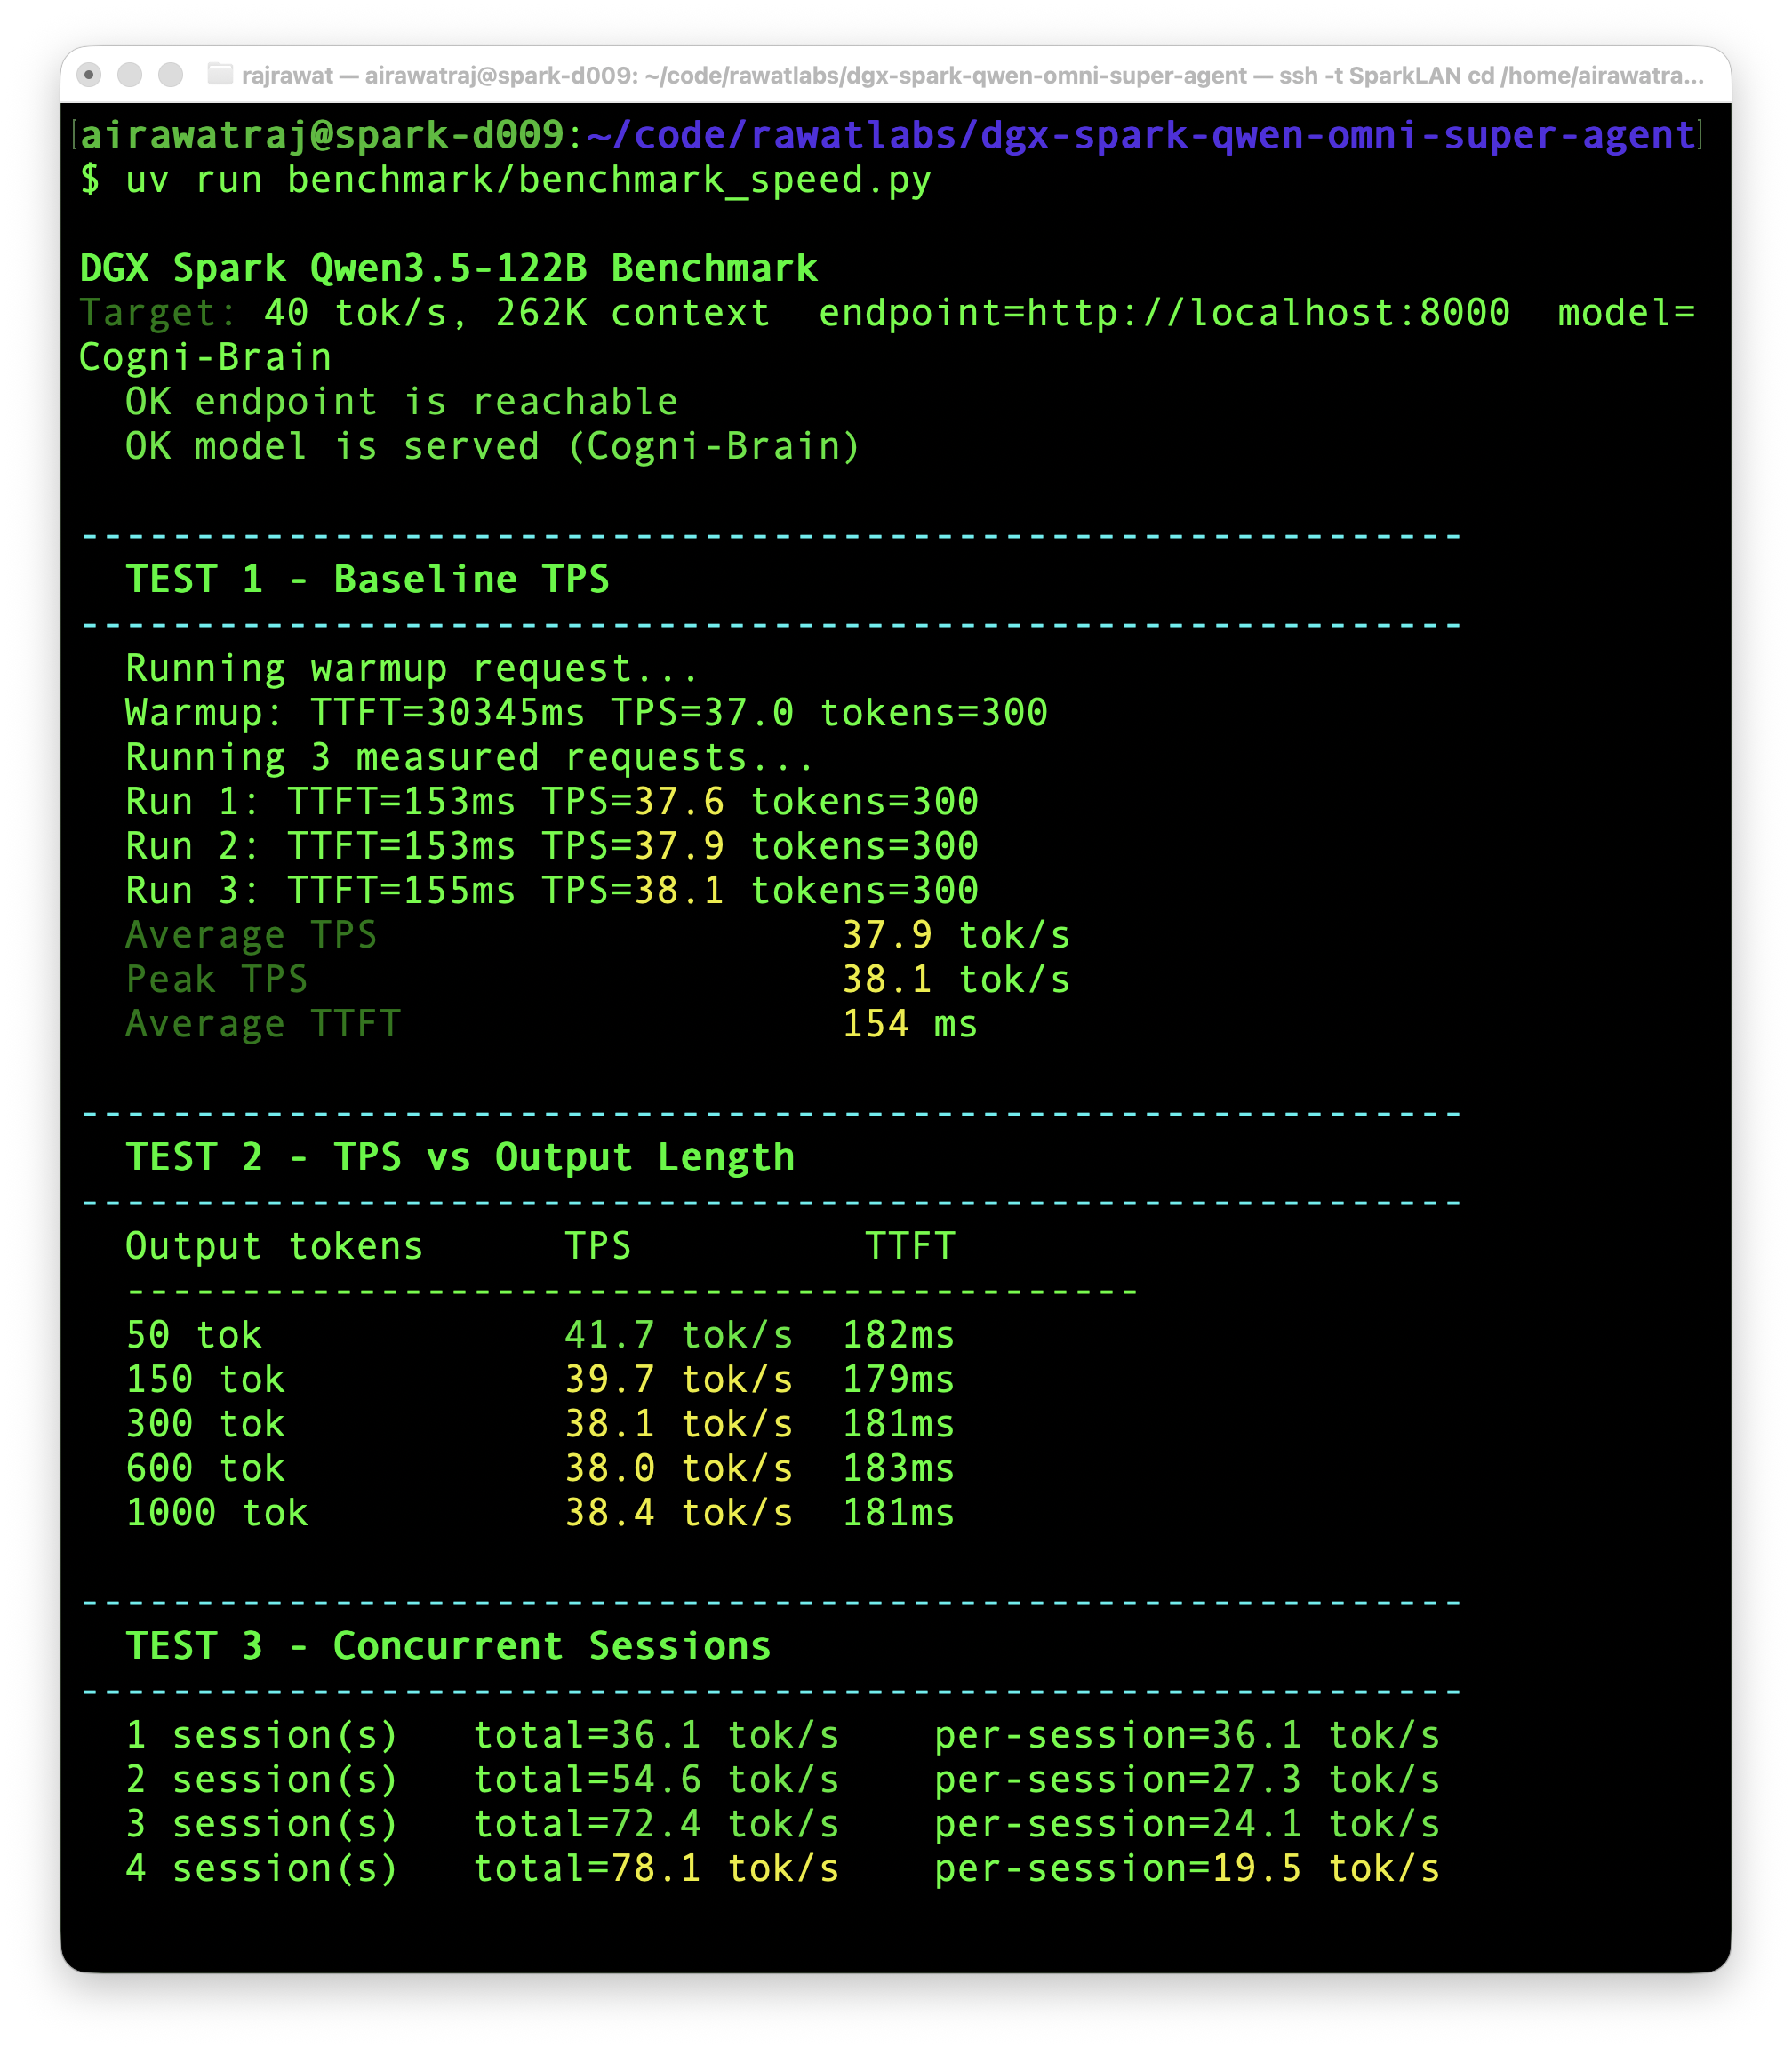
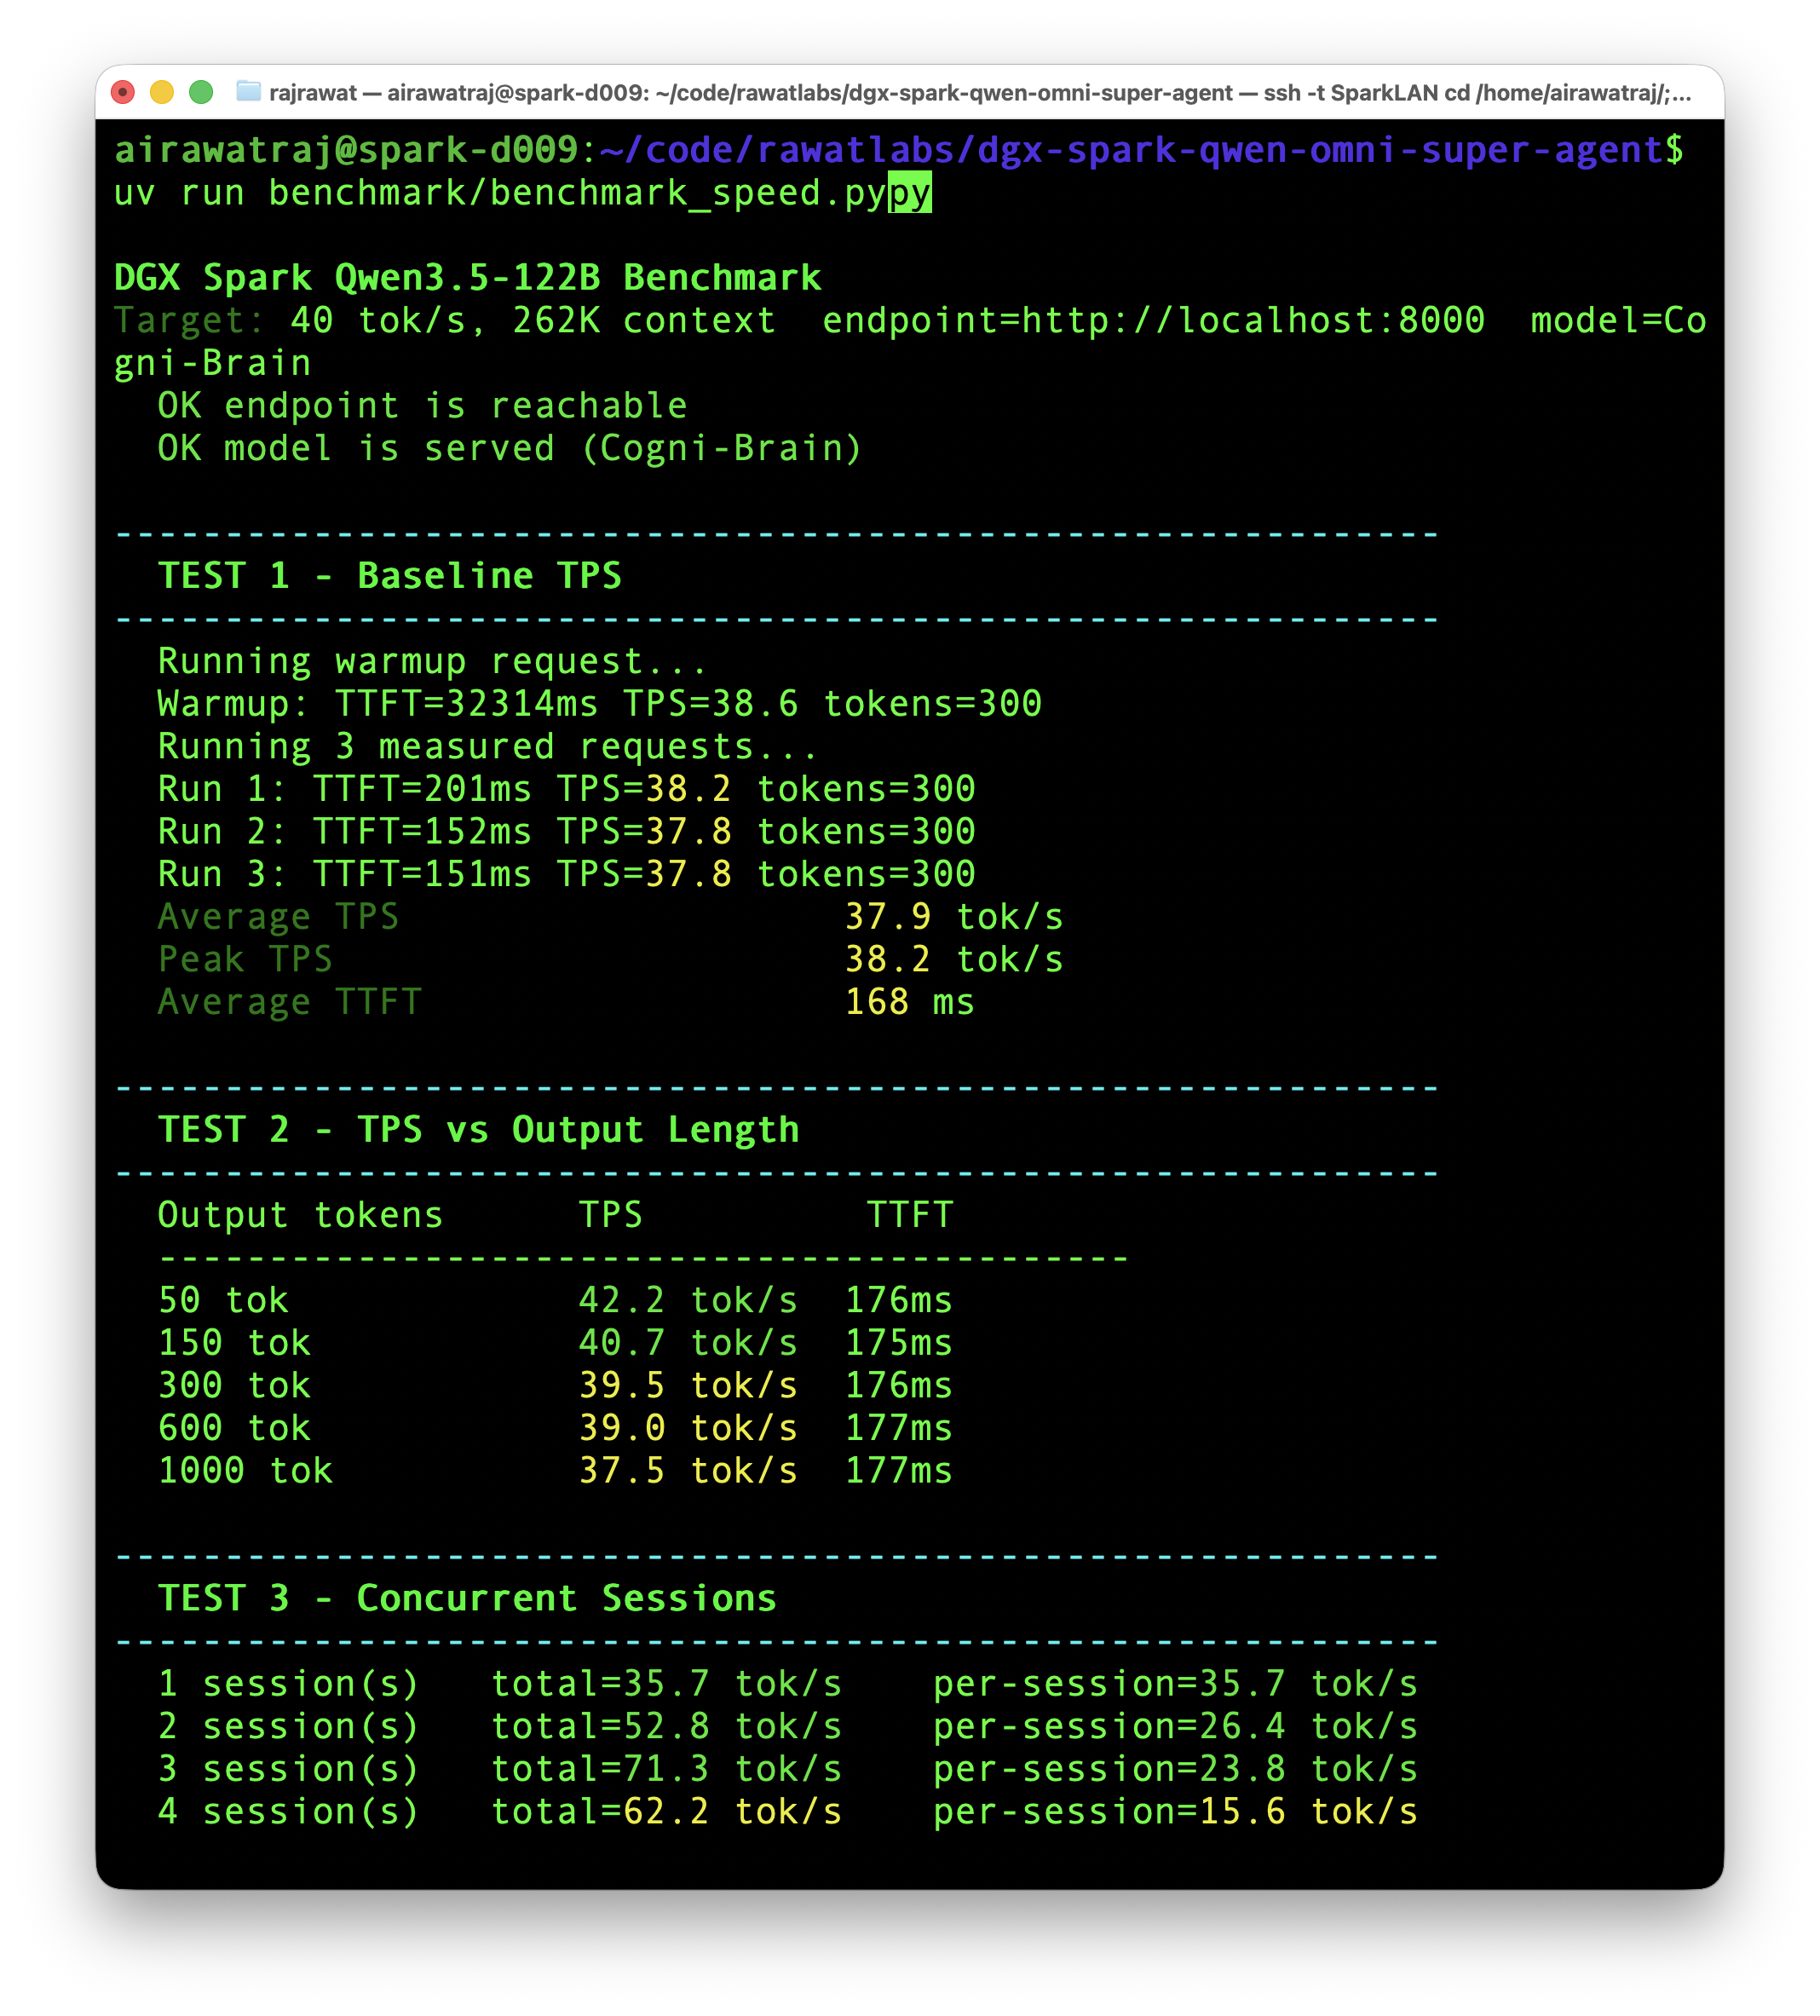
docs: clean up stable profile README

diff --git a/README.md b/README.md
@@ -1,58 +1,39 @@
 # DGX Spark Qwen Omni Super Agent
 
-Local DGX Spark setup for running **[Intel/Qwen3.5-122B-A10B-int4-AutoRound](https://hfviewer.com/Intel/Qwen3.5-122B-A10B-int4-AutoRound)** as a bigger-brain, long-context agent through the community [`spark-vllm-docker`](https://github.com/eugr/spark-vllm-docker) recipe stack.
+Stable long-context **Cogni-Brain** agent profile for running **[Intel/Qwen3.5-122B-A10B-int4-AutoRound](https://hfviewer.com/Intel/Qwen3.5-122B-A10B-int4-AutoRound)** on NVIDIA DGX Spark through the community [`spark-vllm-docker`](https://github.com/eugr/spark-vllm-docker) recipe stack.
+
+This repo is not tuned for peak benchmark TPS alone. It is tuned for practical local agent serving: **262K context**, around **40 tok/s**, **100/100 Tool-Eval**, OpenAI-compatible vLLM serving, and stable use as the `Cogni-Brain` backend for Claude Code, NemoHermes, Open WebUI, and local agent clients.
 
 This repo is the Qwen omni/super-agent sibling to:
 
 | Repo | Role |
 |---|---|
 | [`dgx-spark-gemma4-omni-agent`](https://github.com/airawatraj/dgx-spark-gemma4-omni-agent) | native multimodal perception agent |
-| [`dgx-spark-nemotron-super-agent`](https://github.com/airawatraj/dgx-spark-nemotron-super-agent) | large long-context reasoning agent |
+| [`dgx-spark-nemotron-super-agent`](https://github.com/airawatraj/dgx-spark-nemotron-super-agent) | original large long-context reasoning brain |
 | [`dgx-spark-qwen-super-agent`](https://github.com/airawatraj/dgx-spark-qwen-super-agent) | fast Atlas/NVFP4 Qwen text/tool agent |
 
-This one is tuned for a different balance: **bigger brain, bigger context, practical speed**. The measured profile is around **40 tok/s**, **262K context**, **100/100 tool score**, and an Open WebUI reasoning example that thought for **5 minutes**.
+This one is tuned for a different balance: **bigger context, reliable tool use, practical speed, and stable local-agent behaviour**.
 
 > Personal workstation setup. Not for enterprise use. Use at your own risk.
 
 ## What Worked
 
-The reliable path was to stop hand-assembling a long `docker run` and use the community recipe instead.
-
-This is the easiest DGX Spark agent repo in the set because most of the hard runtime work is delegated to `spark-vllm-docker` and its predefined recipe. The other repos have more war stories from troubleshooting model caches, parsers, kernels, context ceilings, and custom launch flags by hand; this one is intentionally the cleaner "use the community recipe that works" path.
-
-```bash
-# 1. Clone and build once. This downloads prebuilt wheels.
-git clone https://github.com/eugr/spark-vllm-docker.git
-cd spark-vllm-docker
-./build-and-copy.sh --tf5
-
-# 2. Download the model.
-./hf-download.sh Intel/Qwen3.5-122B-A10B-int4-AutoRound
-
-# 3. Launch.
-./run-recipe.sh qwen3.5-122b-int4-autoround --solo \
-  -d --name spark-brain \
-  -e HF_TOKEN=$HF_TOKEN \
-  -- \
-  --served-model-name Cogni-Brain \
-  --speculative-config '{"method":"qwen3_next_mtp","num_speculative_tokens":2}'
-```
-
-The scripts in this repo wrap exactly that flow so the setup is reproducible and easy to tweak.
+The reliable path was to use the community `spark-vllm-docker` recipe through this repo's wrapper scripts instead of hand-assembling a long `docker run`.
 
 The helpers are idempotent by default:
 
-* if `spark-vllm-docker` already exists, `setup/install.sh` reuses it and does not rebuild unless `FORCE_BUILD=1` is set
-* if the model is already present in the Hugging Face cache, `setup/download_model.sh` skips download unless `FORCE_DOWNLOAD=1` is set
-* `docker/start.sh` does not call the download helper; it only launches the recipe
+* `setup/install.sh` reuses an existing `spark-vllm-docker` checkout unless `FORCE_BUILD=1` is set
+* `setup/download_model.sh` skips the model download if it is already present unless `FORCE_DOWNLOAD=1` is set
+* `docker/start.sh` only launches the recipe
 
 ## Why This Setup
 
-The earlier Qwen 35B setup chased maximum single-stream speed. This setup aims for the more stubborn middle ground:
+The earlier Qwen 35B setup chased maximum single-stream speed. The Nemotron setup proved a larger local reasoning brain could run on DGX Spark, but with a smaller context window and slower throughput. This setup aims for the more stubborn middle ground:
 
 * enough speed to stay usable as a local agent
 * enough model capacity to feel less brittle on deep reasoning
 * enough context for 262K-class working memory
+* reliable tool calling under `qwen3_xml`
 * simple launch path using a predefined recipe
 * OpenAI-compatible serving under the stable `Cogni-Brain` alias
 
@@ -61,33 +42,20 @@ The practical goal is to find the best DGX Spark brain for:
 * NemoHermes agent runs through Telegram
 * Claude Code on a MacBook using the DGX Spark as the local OpenAI-compatible backend
 * long autonomous sessions where speed matters, but brittle shallow reasoning is worse
+* local experiments where tool reliability matters more than peak TPS
 
-The recipe model is [Intel/Qwen3.5-122B-A10B-int4-AutoRound](https://hfviewer.com/Intel/Qwen3.5-122B-A10B-int4-AutoRound):
+## Runtime Stack
 
-```text
-Intel/Qwen3.5-122B-A10B-int4-AutoRound
-```
-
-The intended runtime recipe is:
-
-```text
-qwen3.5-122b-int4-autoround
-```
-
-## Architecture
-
-```mermaid
-flowchart TD
-    A["NVIDIA DGX Spark<br/>GB10 Grace-Blackwell<br/>128GB unified memory"]
-    A --> B["spark-vllm-docker<br/>tf5 build + recipe runner"]
-    B --> C["Qwen3.5-122B-A10B<br/>int4 AutoRound"]
-    C --> D["Cogni-Brain<br/>OpenAI-compatible endpoint"]
-    D --> E["Agent tools<br/>NemoHermes / Open WebUI / local clients"]
-    D --> F["262K context checks"]
-    D --> G["Tool-eval-bench<br/>100/100 score"]
-    D --> H["Open WebUI<br/>reasoning checks"]
-    D --> I["spark-arena / llama-benchy"]
-```
+| Layer | Choice |
+|---|---|
+| Hardware | NVIDIA DGX Spark |
+| Runtime | `spark-vllm-docker` |
+| Recipe | `qwen3.5-122b-int4-autoround` |
+| Model | `Intel/Qwen3.5-122B-A10B-int4-AutoRound` |
+| Served name | `Cogni-Brain` |
+| API shape | OpenAI-compatible vLLM endpoint |
+| Main clients | Claude Code, NemoHermes, Open WebUI, local agents |
+| Stable target | 262K context, ~40 tok/s, 100/100 Tool-Eval |
 
 ## Quick Start
 
@@ -130,15 +98,29 @@ Examples:
 ```bash
 PORT=8001 CONTAINER_NAME=spark-brain-test bash docker/start.sh
 SERVED_MODEL_NAME=Cogni-Brain-Qwen122 bash docker/start.sh
-SPECULATIVE_CONFIG='{"method":"qwen3_next_mtp","num_speculative_tokens":1}' bash docker/start.sh
 FORCE_BUILD=1 bash setup/install.sh
 FORCE_DOWNLOAD=1 bash setup/download_model.sh
 ```
 
-Extra arguments after `--` are passed through to vLLM:
+Extra arguments after `--` are passed through to vLLM. The stable benchmarked profile relies on the recipe defaults plus the served model name and speculative config from `docker/start.sh`.
+
+For controlled experiments only:
 
 ```bash
-bash docker/start.sh -- --max-model-len 262144 --gpu-memory-utilization 0.92
+bash docker/start.sh -- --max-model-len 262144 --gpu-memory-utilization 0.8
+```
+
+Do not treat higher memory utilisation, larger batching, or changed speculative-token settings as stable until tool calling is re-tested.
+
+The documented stable run used:
+
+```text
+max_model_len=262144
+gpu_memory_utilization=0.8
+tensor_parallel=1
+max_num_batched_tokens=8192
+served_model_name=Cogni-Brain
+speculative_config={"method":"qwen3_next_mtp","num_speculative_tokens":2}
 ```
 
 ## Benchmarks
@@ -157,38 +139,39 @@ uv run benchmark/benchmark_speed_arena.py --save-result benchmark/results_arena.
 ```
 
 The wrappers fetch `llama-benchy` and `tool-eval-bench` through `uv` on demand. Reruns may use newer upstream benchmark versions unless pinned locally.
+
 The arena sweep tops out at depth `262143` with `tg=128`; using depth `262144` asks vLLM for one token beyond the 262,144-token context window.
-
-## Which DGX Spark Agent Repo?
-
-These are local-workstation comparison points from the adjacent repos and this repo. Treat them as practical operating notes, not universal model claims.
-
-| Repo option | Model / runtime | Approx TPS | Tool score | Context size | Concurrency stability | Best fit |
-|---|---|---:|---:|---:|---|---|
-| `dgx-spark-qwen-omni-super-agent` | [Intel/Qwen3.5-122B-A10B-int4-AutoRound](https://hfviewer.com/Intel/Qwen3.5-122B-A10B-int4-AutoRound) / `spark-vllm-docker` recipe | ~40 tok/s shallow; ~14.7 tok/s at 200K | 100/100 | 262K | best for one or two deep sessions; 4-way long-context runs degrade sharply | Best candidate for bigger-brain NemoHermes + Claude Code |
-| `dgx-spark-qwen-super-agent` | Qwen 3.6-35B-A3B NVFP4 / Atlas | ~128 tok/s local, 218.85 tok/s arena | 100/100 | 131K | very fast, but more memory-sensitive at high concurrency / long context | Fastest tool agent and quick Claude Code backend |
-| `dgx-spark-nemotron-super-agent` | Nemotron-3-Super-120B-A12B NVFP4 / vLLM | ~24 tok/s local, 23.71 tok/s arena | 93/100 | 131K | stable long runs; 4-session aggregate ~53.9 tok/s, but deep simultaneous reasoning can hit kernel issues | Reliable large reasoning brain for long NemoHermes jobs |
-| `dgx-spark-gemma4-omni-agent` | Gemma 4 12B / vLLM omni profile | ~25-30 tok/s local, 22.11 tok/s arena | 83/100 | 196K daily target; 262K can boot but unreliable with full stack | good for multimodal smoke tests, less ideal as main coding brain | Native image/audio/video-as-frames perception |
-
-Current read: Qwen3.5-122B is the one to test hardest for the MacBook + Telegram workflow because it preserves more of the 120B-class reasoning feel while keeping enough speed for interactive agent loops and opening the context window to 262K.
 
 ## Benchmark Results
 
 > Results vary with recipe version, model revision, context length, concurrency, memory pressure, and upstream benchmark versions.
-> A DFlash speculative-decode attempt pushed short-burst speed further, to about **45.2 tok/s**, but was not adopted because tool-eval-bench dropped from **100/100** to **33/100** and tool calls repeatedly returned `500 Internal Server Error`. See [DFLASH_EXPERIMENT.md](./DFLASH_EXPERIMENT.md) for the exact config and notes.
+
+> A DFlash speculative-decode attempt pushed short-burst speed further, to about **45.2 tok/s average** and **46.2 tok/s peak**, but was not adopted because Tool-Eval dropped from **100/100** to **33/100** and tool calls repeatedly returned `500 Internal Server Error`. See [`DFLASH_EXPERIMENT.md`](./DFLASH_EXPERIMENT.md) for the exact config and notes.
+
+> A separate conservative-looking test using `max_num_batched_tokens=16384`, `num_speculative_tokens=1`, and `gpu_memory_utilization=0.8` was also worse than the stable recipe profile: **37.8 tok/s average**, **38.2 tok/s peak**, and **7/100 Tool-Eval** with repeated `500 Internal Server Error` failures. This repo therefore keeps the original stable recipe profile as the documented default.
 
 | Check | Result |
 |---|---:|
-| Single-stream generation | 40 tok/s |
+| Single-stream generation | ~40 tok/s |
 | Usable context | 262,144 tokens |
 | Tool-eval-bench short mode | 100 / 100 |
-| Open WebUI reasoning example | thought for 5 minutes |
+| Open WebUI reasoning example | 5-minute reasoning trace |
 | llama-benchy shallow `tg128` | 39.61 tok/s single stream; 65.11 tok/s total at c2; 82.85 tok/s total at c4 |
 | llama-benchy long-context `tg128` | 25.10 tok/s at 65K; 18.27 tok/s at 131K; 14.65 tok/s at 200K |
 | Runtime path | `spark-vllm-docker` recipe |
 | Served model name | `Cogni-Brain` |
 
-### Llama-Benchy Arena
+### Stable Profile vs Rejected Experiments
+
+| Profile | Main goal | Approx TPS | Tool score | Status |
+|---|---|---:|---:|---|
+| Stable recipe profile | long-context local agent use | ~40 tok/s | 100 / 100 | default |
+| DFlash speed-push profile | short-burst speed experiment | ~45.2 tok/s average; 46.2 tok/s peak | 33 / 100 | documented experiment, not default |
+| 16384/spec1/gpu0.8 profile | conservative batching/speculative test | 37.8 tok/s average; 38.2 tok/s peak | 7 / 100 | rejected |
+
+The speed experiments are useful because they show the tradeoff clearly: the faster or seemingly safer configurations can make token throughput look different, but the stable recipe profile is the one that preserves tool reliability.
+
+### Llama-Benchy Spark Arena
 
 <p align="center">
   <img src="./assets/spark_arena_qwen3_5_122b.png" width="850" alt="Spark Arena community benchmark for Qwen3.5-122B on single DGX Spark">
@@ -233,7 +216,7 @@ Selected `llama-benchy` results for the `Cogni-Brain` served model:
 
 <p align="center">
   <img src="./assets/puzzle_solution_qwen3_5_122b.png" width="850" alt="Qwen3.5-122B reasoning example in Open WebUI">
-  <br><i>Open WebUI reasoning example showing Cogni-Brain thought for 5 minutes before answering.</i>
+  <br><i>Open WebUI reasoning example showing a 5-minute reasoning trace before answering.</i>
 </p>
 
 ### Claude Code Agent Demo
@@ -242,6 +225,26 @@ Selected `llama-benchy` results for the `Cogni-Brain` served model:
   <img src="./assets/claude_code_cogni_brain_chess_app.png" width="850" alt="Claude Code using Cogni-Brain to generate a chess app">
   <br><i>Claude Code on MacBook using Cogni-Brain as the local DGX Spark backend to generate a chess app.</i>
 </p>
+
+
+### DFlash Speed Experiment
+
+A DFlash speculative-decode attempt pushed short-burst speed further, to about **45.2 tok/s average** and **46.2 tok/s peak**, but was not adopted because Tool-Eval dropped from **100/100** to **33/100** and tool calls repeatedly returned `500 Internal Server Error`.
+
+See [`DFLASH_EXPERIMENT.md`](./DFLASH_EXPERIMENT.md) for the full command, screenshots, and failure notes.
+
+## Which DGX Spark Agent Repo?
+
+These are local-workstation comparison points from the adjacent repos and this repo. Treat them as practical operating notes, not universal model claims.
+
+| Repo option | Model / runtime | Approx TPS | Tool score | Context size | Concurrency stability | Best fit |
+|---|---|---:|---:|---:|---|---|
+| `dgx-spark-qwen-omni-super-agent` | [Intel/Qwen3.5-122B-A10B-int4-AutoRound](https://hfviewer.com/Intel/Qwen3.5-122B-A10B-int4-AutoRound) / `spark-vllm-docker` recipe | ~40 tok/s shallow; ~14.7 tok/s at 200K | 100/100 | 262K | best for one or two deep sessions; 4-way long-context runs degrade sharply | Best candidate for bigger-brain NemoHermes + Claude Code |
+| `dgx-spark-qwen-super-agent` | Qwen 3.6-35B-A3B NVFP4 / Atlas | ~128 tok/s local, 218.85 tok/s arena | 100/100 | 131K | very fast, but more memory-sensitive at high concurrency / long context | Fastest tool agent and quick Claude Code backend |
+| `dgx-spark-nemotron-super-agent` | Nemotron-3-Super-120B-A12B NVFP4 / vLLM | ~24 tok/s local, 23.71 tok/s arena | 93/100 | 131K | stable long runs; 4-session aggregate ~53.9 tok/s, but deep simultaneous reasoning can hit kernel issues | Original large reasoning brain for long NemoHermes jobs |
+| `dgx-spark-gemma4-omni-agent` | Gemma 4 12B / vLLM omni profile | ~25-30 tok/s local, 22.11 tok/s arena | 83/100 | 196K daily target; 262K can boot but unreliable with full stack | good for multimodal smoke tests, less ideal as main coding brain | Native image/audio/video-as-frames perception |
+
+Current read: Qwen3.5-122B is the one to test hardest for the MacBook + Telegram workflow because it preserves more of the 120B-class reasoning feel while keeping enough speed for interactive agent loops and opening the context window to 262K.
 
 ## Repository Structure
 
@@ -267,7 +270,8 @@ Selected `llama-benchy` results for the `Cogni-Brain` served model:
 
 ## Notes
 
-* This repo does not vendor `spark-vllm-docker`; it clones it beside this repo by default.
+* This repo does not include `spark-vllm-docker`; it clones it beside this repo by default.
 * `HF_TOKEN` should be exported before launch when model access requires authentication.
 * The recipe owns most low-level vLLM configuration. Keep overrides minimal unless you are intentionally exploring a new performance envelope.
 * For clean arena measurements, stop other local agent containers before running the long `llama-benchy` sweep.
+* Do not treat DFlash, higher batching, higher memory utilisation, or changed speculative-token settings as stable until tool calling is re-tested.